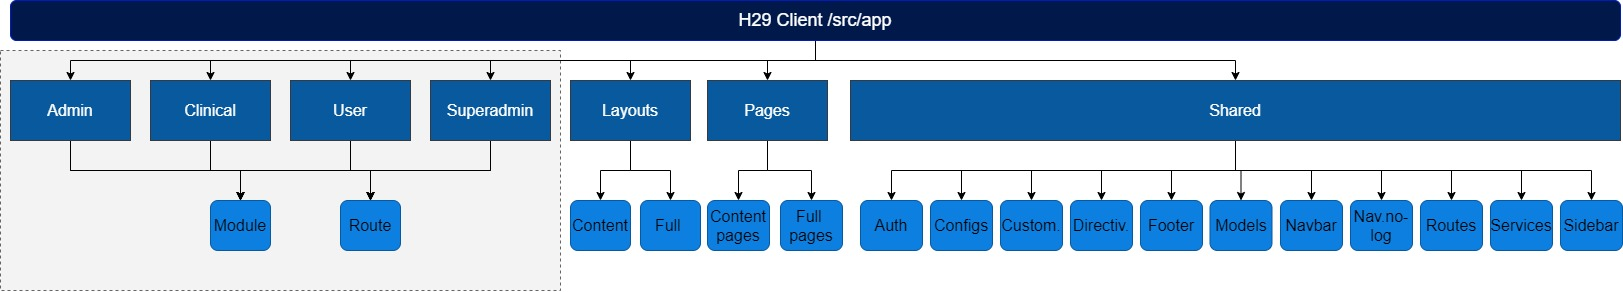
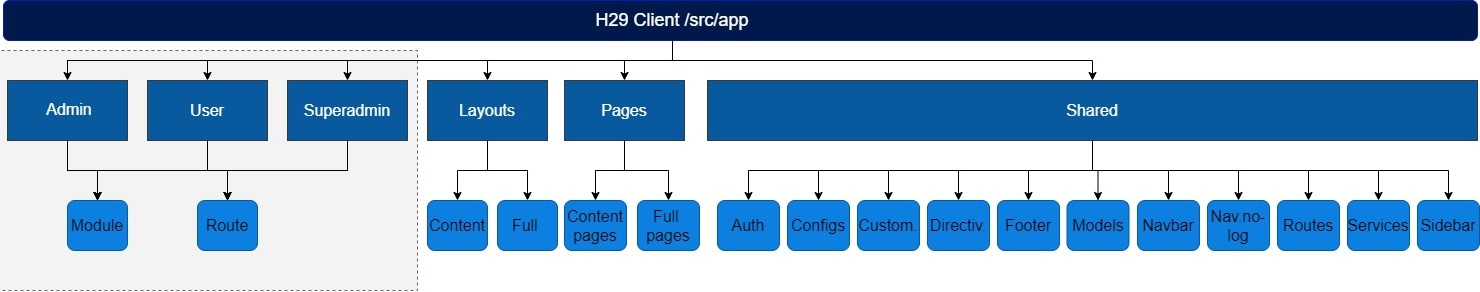
revision part 1

diff --git a/source/pages/SW/Code.md b/source/pages/SW/Code.md
@@ -45,6 +45,7 @@ For this purpose, crypto libraries (aes-256-ecb) are used for data encryption an
 - Encryption: When a user tries to create an account, the pw is sha512 before it is sent to the server. On the server a jump is created using the bcrypt library and a hash is applied to it before it is stored. This password will never be returned as described in the database model (password: { type: String, select: false,...). On the other hand, in the login process, it is the data model itself that checks that the pw is valid (bcrypt.compare). If it exceeds a maximum of 5 attempts, the account is blocked for 2 hours.
 - Authentication token. All Methods APIs that have the authorization field in the header use Bearer authentication to restrict access to protected resources, , and always be sent next to a token. The bearer token is a cryptic string, generated by the server in response to a login request. Example of the header: Authorization: Bearer (token).\
 These requests can return some errors, such as the token is invalid, or has expired: { status: 401, message: "Token expired"} or { status: 401, message: "Invalid Token"}
+- Authorization: All Methods APIs that have the authorization, it is verified that it has the expected role.
 
 Health29 provides a Web API for accessing data. Anyone can develop an application to access and modify a Health29 user's data. OAuth 2.0 (Implicit Grant) is used as an authorization protocol to give an API client limited access to user data.
 
@@ -90,7 +91,6 @@ The **app folder** is the one with all the code:
 - **Role pages**
 >- *admin*: contains all pages for the admin role
 >- *superadmin*: contains all pages for the superadmin role
->- *clinical*: contains all pages for the clinical role
 >- *user*: contains all the pages for the user role. 
 Each folder of these roles has a module file (it loads the needed modules), and a route file to manage the routes and control the authentication and authorization (auth-guard and role-guard)
 
@@ -121,8 +121,8 @@ The rest of the subroutes that come from full-layout, are controlled if they are
 - The **dist folder** contains the compilation of the client code.
 - In the **models folder**, the different templates for working with the platform's database collections are defined. 
 - The **controllers folder** contains the functionality to work with the previous collections. It is organized according to the actions that each role of the health29 platform can perform.
-- In the **routes folder**, all the routes of the api appear. It contains the file index.js that links the models with the controllers, defining the requests that will be available to the Health29 client. Those that have auth means that they need authorization to be used. 
-- **Middlewares** has the file auth.js which is in charge of checking if the token is valid, so that you know if you have permission to make the request to the API call.
+- In the **routes folder**, all the routes of the api appear. It contains the file index.js that links the models with the controllers, defining the requests that will be available to the Health29 client. Those that have auth means that they need authentication to be used, and authorization. 
+- **Middlewares** has the file auth.js which is in charge of checking if the token is valid, so that you know if you have permission to make the request to the API call. It also has the roles.js file, where the different role groups are defined.
 - In **views** we have the views generated by the server and the templates for the emails. 
 - Analogous to the client structure we have the **services folder**. Here, we have the following services: Auth.js creates and decodes token, crypt.js encrypts and decrypts data and email.js is the emailing service. There are also other services for exomizer and phenolizer functions.
 - **Some files**:
@@ -169,7 +169,6 @@ On the one hand, among all those found in this file, we can mainly highlight tha
 >- 2.2.5 of [web-animations-js](https://www.npmjs.com/package/web-animations-js). License: [Apache-2.0](https://opensource.org/licenses/Apache-2.0)
  
 - For the server:
->- 1.0.5 of [k3rn31p4nic/google-translate-api](https://www.npmjs.com/package/@k3rn31p4nic/google-translate-api). License: [GPL-3.0](https://www.gnu.org/licenses/gpl-3.0.html)
 >- 1.12.1 of [nodemon](https://www.npmjs.com/package/nodemon). License: [MIT](https://opensource.org/licenses/MIT)
 >- 4.16.2 of [express](https://www.npmjs.com/package/express). License: [MIT](https://opensource.org/licenses/MIT) and 3.0.0 of [express-handlebars](https://www.npmjs.com/package/express-handlebars). License: [BSD-3-Clause](https://opensource.org/licenses/BSD-3-Clause)
 >- 4.13.1 [moongose](https://www.npmjs.com/package/mongoose). License: [MIT](https://opensource.org/licenses/MIT)
@@ -1237,7 +1236,7 @@ On the other hand, it has already been commented throughout this document that a
 
 
 #### 2.4.8.2. Multilanguage in server
-On the server, on the one hand you use **[google-translate-api](https://www.npmjs.com/package/@k3rn31p4nic/google-translate-api)**. It will be used in the superadmin language controller (controllers/superadmin/langs.js) to manage new languages.
+On the server, in the superadmin language controller (controllers/superadmin/langs.js) you can manage new languages.
 
 On the other hand, **different views** have been implemented (one for each language in which we want to use the health29 platform) which will be selected according to the language information provided by the customer in their requests.
 

diff --git a/source/pages/SW/Components.md b/source/pages/SW/Components.md
@@ -29,7 +29,7 @@ The Health29 platform has been developed as a Platform as a Service (PaaS) in Az
 	<img width="400px" src="../../_images/F29API_component.jpg">
 </p>
 
-**The [Monarch](https://api.monarchinitiative.org/) API**, is an external API that is used for the diagnostic functions for the different roles of the Health29 platform. 
+**The [Monarch](https://api.monarchinitiative.org/) API**, is an external API that is used to obtain symptom information. 
 
 <p style="text-align: center;">
 	<img width="300px" src="../../_images/monarchAPI_component.jpg">
@@ -131,10 +131,6 @@ And access the two that uses the Health29 platform from these links:
 <p style="text-align: center;">
 	<img width="400px" src="../../_images/blobs_component.jpg">
 </p>
-
-### 2.3.6. Other services
-- The [Genomics Functions apps](https://portal.azure.com/#blade/WebsitesExtension/FunctionsIFrameBlade/id/%2Fsubscriptions%2F53348303-e009-4241-9ac7-a8e4465ece27%2FresourceGroups%2Fhealth29%2Fproviders%2FMicrosoft.Web%2Fsites%2FGenomicServices) for phenolyze and exomize tasks. It is an Azure service.
-- The [DiagnosisApi](https://portal.azure.com/#@foundation29outlook.onmicrosoft.com/resource/subscriptions/53348303-e009-4241-9ac7-a8e4465ece27/resourceGroups/phenotypeBot/providers/Microsoft.Web/sites/DiagnosisApi/appServices) is an App Service of Azure that is used for consulting the symptons of a diagnose. It is an Azure service.
 
 ### 2.3.7. Databases
 We have several separate collections in two databases, one for accounts and general things, and one for patient data. 

diff --git a/source/pages/SW/SystemContext.md b/source/pages/SW/SystemContext.md
@@ -21,7 +21,7 @@ Using the navigation through the menu of this role, the administrator will be ab
 - **Super Administrator**. This is a more technical profile. He or she can add languages to the platform, manage translations, and manage the different groups of patients (Add symptoms, FAQs, datapoints, medicines). 
 
 
-Furthermore, we also have the profile of the **clinicians**. They will be able to create patients, and work on the phenotype and genotype.
+Furthermore, we also have the profile of the **researcher**. They will be able to consuming data through the API.
 
 In general, this platform will be able to store patient data and have it managed by the administrators of the group to which it belongs. The latter will be able, on the one hand, to obtain statistical information about the interaction of the users with the platform, and on the other hand, to interact with the patients through notifications or alerts.
 
